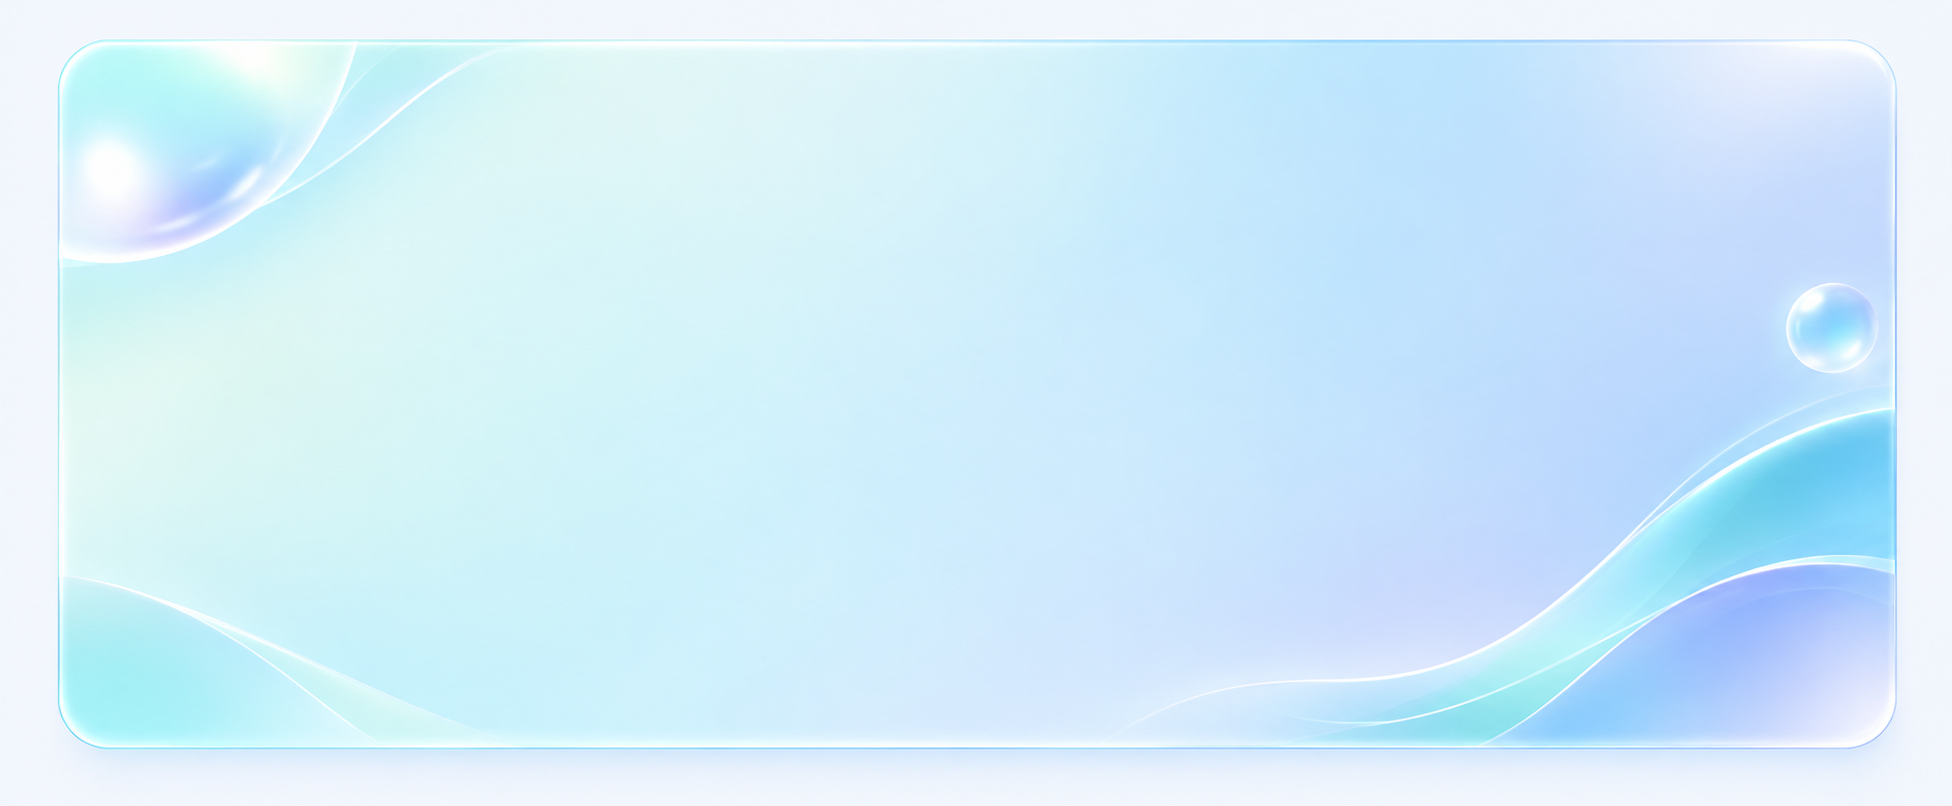
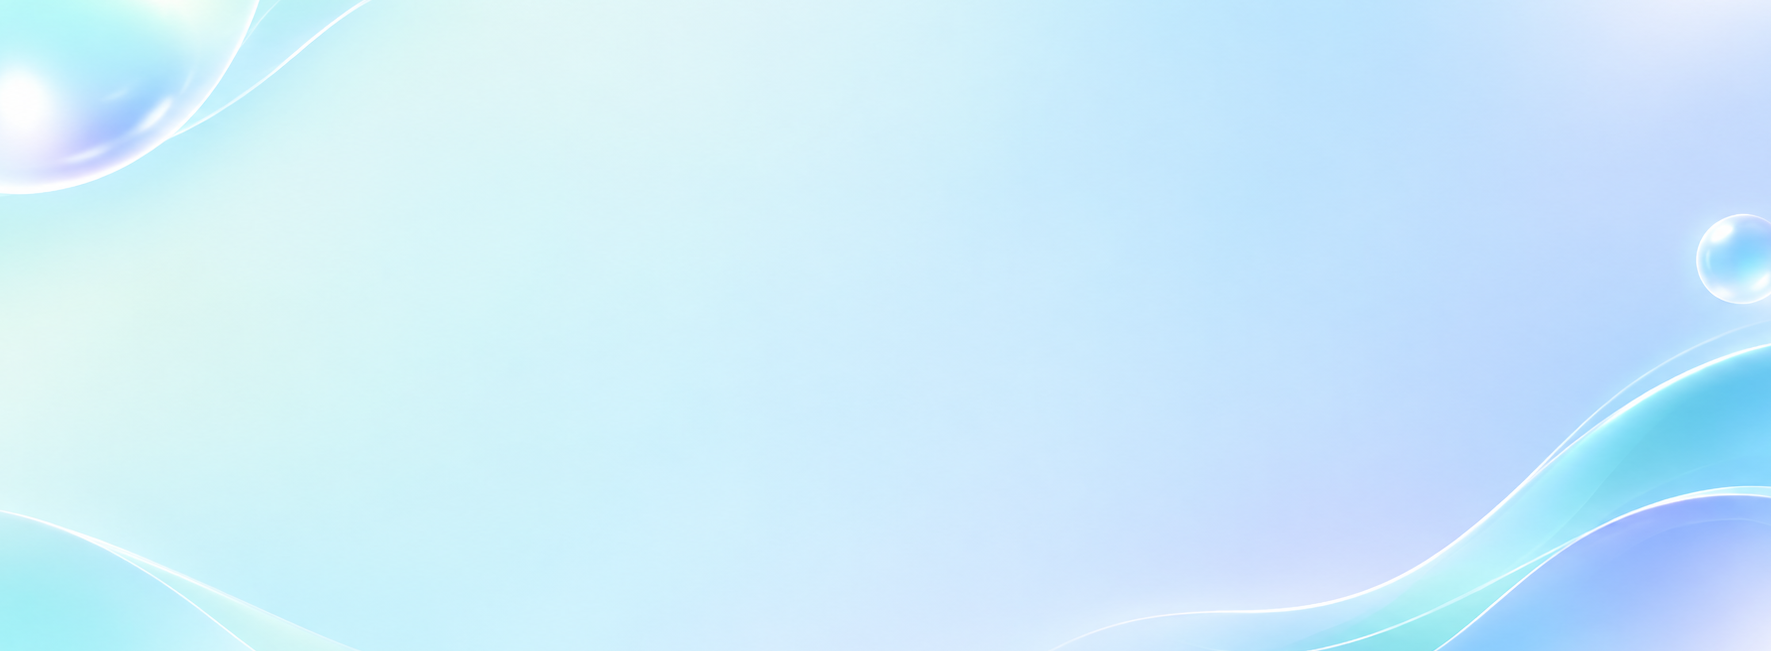
feat: latest version hero carousel

Changed region(s): [[0.0, 0.0, 1.0, 1.0], [0.0, 0.1229, 0.1863, 0.4301], [0.0, 0.0, 0.2484, 0.1229]]

diff --git a/src/features/landing/HeroCarousel.module.css b/src/features/landing/HeroCarousel.module.css
@@ -5,6 +5,11 @@
 .poster { position: relative; isolation: isolate; height: 100%; padding: var(--spacing-lg); color: var(--color-secondary-1000); background: var(--color-tertiary-100); border: 1px solid var(--color-secondary-300); border-radius: calc(var(--radius-lg) + var(--radius-md)); overflow: hidden; }
 .poster[data-slide="slide-competition"] { background: var(--color-secondary-100); }
 .poster[data-slide="slide-event"] { background: var(--color-primary-100); }
+.background { z-index: -2; object-fit: cover; object-position: 65% center; }
+.poster[data-slide="slide-competition"] .background { object-position: 60% center; }
+.poster[data-slide="slide-event"] .background { object-position: 75% center; }
+.poster::before { content: ""; position: absolute; inset: 0; z-index: -1; pointer-events: none; background: rgb(from var(--color-neutral-100) r g b / .08); }
+:global(html[data-theme="dark"]) .poster::before { background: rgb(from var(--color-secondary-100) r g b / .84); }
 :global(html[data-theme="dark"]) .poster { color: var(--color-neutral-1000); }
 .body { position: relative; z-index: 2; padding-top: var(--spacing-lg); }
 .title { margin: 0; font-family: var(--font-heading), sans-serif; font-size: var(--text-h3); font-weight: 700; line-height: 1.1; letter-spacing: -.02em; }
@@ -37,6 +42,7 @@
   .art { width: 280px; height: 250px; right: var(--spacing-xl); }
 }
 @media (min-width: 640px) {
+  .poster[data-slide] .background { object-position: center; }
   .hero { padding-block: var(--spacing-xl); }
   .viewport { height: 620px; }
   .slot { width: min(94vw, 1160px); padding-inline: var(--spacing-md); }

diff --git a/src/features/landing/HeroCarousel.tsx b/src/features/landing/HeroCarousel.tsx
@@ -30,8 +30,13 @@ function HeroCardContent({ slide, active }: { slide: HeroSlide; active: boolean 
   const competition = slide.id === "slide-competition";
   const artwork = overview ? "/images/parent/logo-navibar.png" : competition
     ? "/images/competitions/ioe-oil-rig-design-aquatic.png" : "/images/competitions/ioe-paper-poster-aquatic.png";
+  const background = overview ? "/images/parent/Card IOE.png" : competition
+    ? "/images/parent/Card 2.png" : "/images/parent/Card 3.png";
   return (
     <div className={styles.poster} data-slide={slide.id} data-active={active}>
+      <Image src={background} alt="" fill unoptimized className={styles.background} data-slide-background
+        sizes="(min-width: 1024px) 1040px, 100vw" loading={active ? "eager" : "lazy"}
+        fetchPriority={active ? "high" : "auto"} />
       <div className={styles.art} aria-hidden="true">
         <Image
           className={styles.subject}

diff --git a/amunisi/CHANGELOG.md b/amunisi/CHANGELOG.md
@@ -12,6 +12,22 @@
 
 ## Unreleased
 
+### [2026-11-03 19:23] Apply supplied Card artwork as matching hero backgrounds
+
+- **Tipe:** Feature
+- **Scope:** Landing hero background integration only.
+- **Ringkasan:** Slide IOE now uses `/images/parent/Card IOE.png`, Competition uses `Card 2.png`, and Events uses `Card 3.png`. Existing foreground illustrations, content, framing, preview structure, navigation and carousel behavior are retained. Backgrounds use cover sizing, centered desktop composition, individual mobile positions and theme-aware overlays for readable text.
+- **File diubah:**
+  - `src/features/landing/HeroCarousel.tsx` — reference the existing background files directly with fill images; active backgrounds load eagerly. Original PNGs bypass a locally observed WebP optimizer conversion failure; no duplicate assets were created.
+  - `src/features/landing/HeroCarousel.module.css` — clipped background layers, responsive cover positioning and contrast overlays within existing rounded frames.
+  - `scripts/check-hero.mjs` — assert exact per-slide source mapping, cover sizing and full content-area coverage; wait for image decoding and completed wrap transitions before sampling contrast. Optional UI_WIDTHS supports targeted checks.
+  - `amunisi/CHANGELOG.md` — record integration and validation.
+- **Verifikasi:** Frontend TypeScript, targeted ESLint and `git diff --check` passed. Final browser run passed all 24 slide/viewport/theme combinations at 320/390/768/1440px: matching loaded backgrounds, cover bounds, text fit, sampled contrast, 44px controls and preserved discovery. Arrow keys, preview clicks, pagination, six-second autoplay, hover pause/resume, swipe, focus pause and reduced motion passed without runtime exceptions. Final screenshots/results: ignored `.next/hero-review/card-backgrounds/`; API reads were intercepted.
+- **Skills used:** `ponytail` and `ui-skills`, retaining the previously selected Swiss editorial/accessibility guidance within the existing IOE design.
+- **Terkait requirement:** Use supplied Card IOE, Card 2 and Card 3 assets as their corresponding slide backgrounds.
+- **Breaking change:** No; no content, routes, backend behavior, dependencies, commits or pushes changed.
+- **Belum selesai / follow-up:** Backgrounds are served as original PNGs to avoid the observed local optimizer issue. Image-file edits supplied during this task were preserved; no image files were rewritten by this integration. Earlier unrelated content/font limitations remain unchanged.
+
 ### [2026-11-03 19:00] Hapus header kecil dan footer bernomor pada hero card
 
 - **Tipe:** Fix
